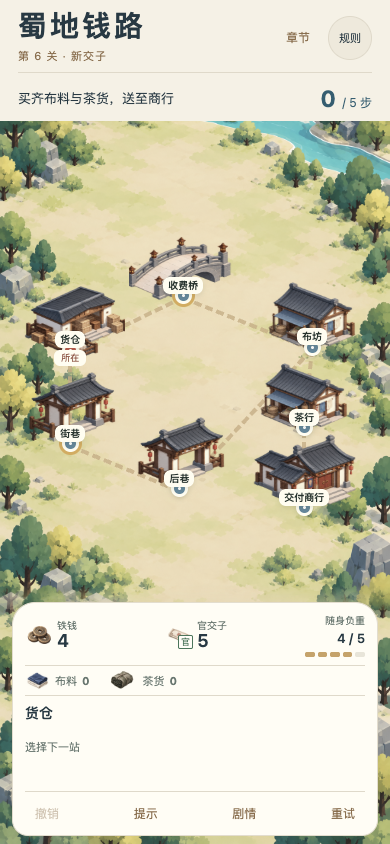
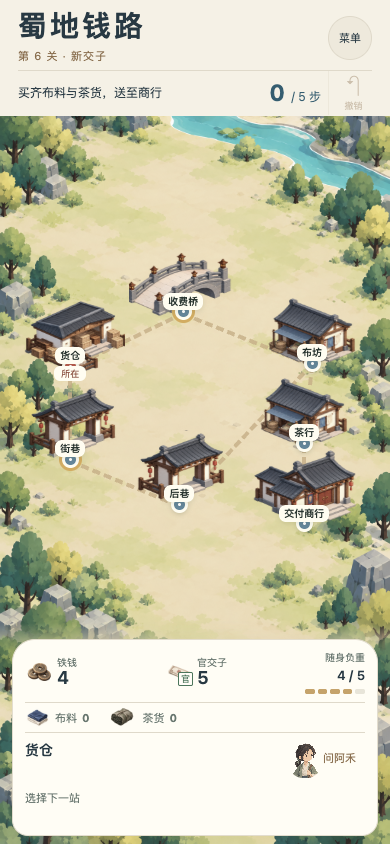
Integrate game utilities into step counter, guide and menu

diff --git a/web/app.js b/web/app.js
@@ -14,11 +14,12 @@ function mapView(v){
  <div class="art-hit-layer">${v.artRegions.map(n=>`<button class="atlas-building-hit" style="${n.style}" data-building="${n.id}" aria-label="查看${esc(n.name)}"></button>`).join('')}</div>
  <div class="interaction-layer">${v.nodes.map(n=>`<button class="node scene-node ${n.current?'current':''} ${n.reachable?'reachable':''}" style="${n.style}" data-node="${n.id}" aria-label="查看${esc(n.name)}${n.current?'，当前所在地':''}"><span class="scene-placard">${esc(n.name)}</span><span class="scene-pin"><i></i></span>${n.current?'<span class="you-marker">所在</span>':''}</button>`).join('')}</div></div></div>`;
 }
-function panel(v){const p=v.panel;return `<div class="action-panel ${p.kind}"><div class="panel-heading"><strong>${esc(p.title)}</strong><span class="muted">${esc(p.meta)}</span></div><div class="payment-controls">${p.steppers.map(s=>`<div class="stepper ${s.key==='x'?'exchange-stepper':''}">${btn('−',s.minus,'small',s.minDisabled)}<span class="stepper-value">${esc(s.label)}${s.key==='x'?'':` <b>${s.value}</b>`}</span>${btn('+',s.plus,'small',s.maxDisabled)}</div>`).join('')}</div>${p.choices.length?`<div class="choice-buttons">${p.choices.map(c=>btn(c.label,c.id,c.selected?'primary':'secondary')).join('')}</div>`:''}<p class="preview">${esc(p.preview)}</p><div class="action-buttons">${buttons(p.buttons)}</div></div>`;}
+function panel(v){const p=v.panel;return `<div class="action-panel ${p.kind}"><div class="panel-heading"><strong>${esc(p.title)}</strong><span class="muted">${esc(p.meta)}</span></div><button class="ask-guide" data-action="hint" aria-label="向阿禾询问提示"><img src="${v.guide.portrait}" alt=""><span>问阿禾</span></button><div class="payment-controls">${p.steppers.map(s=>`<div class="stepper ${s.key==='x'?'exchange-stepper':''}">${btn('−',s.minus,'small',s.minDisabled)}<span class="stepper-value">${esc(s.label)}${s.key==='x'?'':` <b>${s.value}</b>`}</span>${btn('+',s.plus,'small',s.maxDisabled)}</div>`).join('')}</div>${p.choices.length?`<div class="choice-buttons">${p.choices.map(c=>btn(c.label,c.id,c.selected?'primary':'secondary')).join('')}</div>`:''}<p class="preview">${esc(p.preview)}</p><div class="action-buttons">${buttons(p.buttons)}</div></div>`;}
 function portrait(a,cls='portrait'){return `<img class="${cls}" src="${a.portrait}" alt="${esc(a.name)}">`;}
 function vignette(v,who){return `<div class="story-visual"><img class="vignette-scene" src="${v.narrative.scene}" style="object-position:${v.narrative.crop}" alt="蜀地街市"><div class="vignette-wash"></div>${portrait(who,'hero-portrait')}<div class="vignette-caption"><span class="eyebrow">${esc(v.narrative.tag)}</span><span>一程商路 · 一笔人情</span></div></div>`;}
 function response(v){return `<div class="character-response">${portrait(v.outroActor)}<div><b>${esc(v.outroActor.name)}</b><p>${esc(v.outroText)}</p></div></div>`;}
 function modal(v){const m=v.modal;if(!m)return '';let foot='';
+ if(m.kind==='menu')return `<div class="modal-backdrop menu-backdrop"><section class="rules-dialog journey-menu" role="dialog" aria-modal="true" aria-label="行商手记"><div class="row"><h2>行商手记</h2>${btn('收起','close','text-button')}</div><div class="journey-menu-items">${btn('查看规则','rules','secondary')}${btn('重听委托','replay','secondary')}${btn('重新启程','retry','secondary')}${btn('选择章节','chapters','secondary')}</div></section></div>`;
  if(m.kind==='move')foot=btn('返回','close','secondary')+(m.canMove?btn('确认前往','confirm-move'):'');
  else if(m.kind==='lesson')foot=btn('跳过教学','skip-tutorial','secondary')+btn('继续','lesson-next');
  else if(m.kind==='hint')foot=btn('返回游戏','close','secondary')+btn(v.hintLevel===1?'查看参考解法':'再提示一点','hint-next','primary',v.hintLevel>=2);
@@ -32,7 +33,7 @@ function render(){const v=ShuNarrative.decorate(ShuScene.decorate(game.view())),
  else if(v.screen==='chapters')html=`<section class="chapters-screen narrative-chapters"><div class="row"><div><span class="eyebrow">从一袋铁钱，到独当一面</span><h1>行商六记</h1></div>${btn('返回','home','text-button')}</div><p class="chapter-progress">已办妥 ${v.completedCount} 笔委托 · 共 ${v.chapterCount} 章</p><div class="chapter-grid">${v.chapters.map(c=>`<button class="chapter-card ${c.completed?'completed':''}" data-action="level:${c.id}" ${c.locked?'disabled':''}><div class="chapter-thumbnail"><img src="${c.scene}" style="${c.artStyle}" alt=""><span class="chapter-number">0${c.number}</span><span class="chapter-state">${c.locked?'未解锁':c.completed?'已完成':'启程'}</span></div><div class="chapter-card-copy"><strong>${esc(c.title)}</strong><span>${esc(c.subtitle)}</span></div></button>`).join('')}</div></section>`;
  else if(v.screen==='intro')html=`<section class="chapter-opening"><header><span class="eyebrow">第 ${l.number} 关 / ${esc(v.narrative.tag)}</span><h1>${esc(l.title)}</h1><p class="opening-line">${esc(v.narrative.line)}</p></header>${vignette(v,v.narrative.speaker)}<div class="commission-card"><div class="speaker-line"><b>${esc(v.narrative.speaker.name)}</b><span>${esc(v.narrative.speaker.role)}</span></div><p>${esc(v.narrative.opening)}</p><div class="commission-details"><strong>${esc(l.mission)}</strong><div><span>${l.maxSteps} 步内送达</span><span>钱袋 ${l.capacity} 格</span></div></div></div><div class="opening-actions">${btn('开始委托','play')}${btn('跳过教学，直接开始','skip-intro','text-button')}</div></section>`;
  else if(s.status!=='playing')html=`<section class="result-screen"><span class="eyebrow">第 ${l.number} 关 · ${esc(l.title)}</span><h1 class="cover-title">${s.status==='won'?'委托完成':'行程未成'}</h1>${response(v)}${s.status!=='won'?`<p class="result-copy">${esc(v.resultText)}</p>`:''}<div class="result-stats"><span>行动<b>${s.stepsUsed} / ${l.maxSteps}</b></span><span>剩余资金<b>${v.total}</b></span><span>费用<b>${v.fee}</b></span></div><p class="muted">${esc(v.remainingText)}</p><p class="path">${esc(v.pathText)}</p><div class="ledger">${v.ledger.map(row=>`<p>${esc(row.text)}</p>`).join('')}</div>${s.status==='won'?`<p class="route-review">${esc(v.routeReview)}${v.ending?'<br>'+esc(v.ending):''}</p>`:''}<div class="result-buttons">${s.status==='won'?btn(v.nextLabel,'next'):''}<div class="action-buttons">${btn('重新挑战','retry','secondary')}${btn('撤销上一步','undo','secondary',!v.canUndo)}</div>${btn('返回章节','chapters','text-button')}</div></section>`;
- else html=`<div class="panel-terrain"><img src="${v.modular?'/miniapp/assets/v2/terrain.png':'/miniapp/assets/approved/town-extended.png'}" alt=""></div><header class="topbar"><div class="row"><div><h1 class="brand">蜀地钱路</h1><span class="chapter">第 ${l.number} 关 · ${esc(l.title)}</span></div><div class="top-actions">${btn('章节','chapters','text-button')}${btn('规则','rules','menu-button')}</div></div><div class="mission"><span>${esc(l.mission)}</span><span class="steps"><b>${s.stepsUsed}</b> / ${l.maxSteps} 步</span></div></header>${mapView(v)}<section class="dock"><div class="wallet">${v.resources.map(r=>`<div class="walletitem">${icon(r)}<div><span class="label">${esc(r.name)}</span><b>${r.value}</b></div></div>`).join('')}<div class="load"><span class="label">随身负重</span><b>${v.weight} / ${l.capacity}</b><div class="capacity">${v.slots.map(slot=>`<i class="slot ${slot.kind}"></i>`).join('')}</div></div></div><div class="cargo-strip">${v.cargo.map(c=>`<span>${icon(c)}${esc(c.name)} <b>${c.value}</b></span>`).join('')}</div>${v.message?`<div class="feedback ${v.error?'error':''}" role="status">${esc(v.message)}</div>`:''}${panel(v)}<div class="controls">${btn('撤销','undo','text-button',!v.canUndo)}${btn('提示','hint','text-button')}${btn('剧情','replay','text-button')}${btn('重试','retry','text-button')}</div></section>`;
+ else html=`<div class="panel-terrain"><img src="${v.modular?'/miniapp/assets/v2/terrain.png':'/miniapp/assets/approved/town-extended.png'}" alt=""></div><header class="topbar"><div class="row"><div><h1 class="brand">蜀地钱路</h1><span class="chapter">第 ${l.number} 关 · ${esc(l.title)}</span></div><div class="top-actions">${btn('菜单','menu','menu-button')}</div></div><div class="mission"><span>${esc(l.mission)}</span><div class="journey-actions"><span class="steps"><b>${s.stepsUsed}</b> / ${l.maxSteps} 步</span><button class="undo-action" data-action="undo" aria-label="撤销上一步" title="撤销上一步" ${v.canUndo?'':'disabled'}><span aria-hidden="true">↶</span><small>撤销</small></button></div></div></header>${mapView(v)}<section class="dock"><div class="wallet">${v.resources.map(r=>`<div class="walletitem">${icon(r)}<div><span class="label">${esc(r.name)}</span><b>${r.value}</b></div></div>`).join('')}<div class="load"><span class="label">随身负重</span><b>${v.weight} / ${l.capacity}</b><div class="capacity">${v.slots.map(slot=>`<i class="slot ${slot.kind}"></i>`).join('')}</div></div></div><div class="cargo-strip">${v.cargo.map(c=>`<span>${icon(c)}${esc(c.name)} <b>${c.value}</b></span>`).join('')}</div>${v.message?`<div class="feedback ${v.error?'error':''}" role="status">${esc(v.message)}</div>`:''}${panel(v)}</section>`;
  root.innerHTML=html+modal(v);if(v.modal&&v.modal.kind!=='lesson')root.querySelector('.rules-dialog button')?.focus({preventScroll:true});
 }
 root.addEventListener('click',e=>{const b=e.target.closest('button');if(!b||b.disabled)return;if(b.dataset.node||b.dataset.building)game.selectNode(b.dataset.node||b.dataset.building);else game.dispatch(b.dataset.action);render();});

diff --git a/miniapp/styles/narrative.css b/miniapp/styles/narrative.css
@@ -16,3 +16,9 @@
 .narrative-backdrop{align-items:flex-end;background:#28394318;padding:0 12px calc(12px + env(safe-area-inset-bottom));top:0;bottom:0;pointer-events:none}.narrative-backdrop.important-dialogue{background:#28394345;pointer-events:auto}.narrative-backdrop .dialogue-card{position:relative;pointer-events:auto;max-width:none;max-height:none;padding:18px 14px 12px;min-height:202px;border:1px solid var(--line);border-radius:22px;background:var(--white);box-shadow:0 -5px 30px #2839431a;overflow:visible}.dialogue-portrait{position:absolute;bottom:63px;left:0;width:125px;height:181px;object-fit:contain;object-position:bottom;filter:saturate(var(--story-portrait-tone));pointer-events:none}.dialogue-copy{margin-left:112px;min-height:112px}.dialogue-copy .eyebrow{letter-spacing:1px;font-size:10px}.dialogue-card h2,.dialogue-name{margin:4px 0 7px!important;font-size:18px!important;color:var(--brown);font-weight:700}.dialogue-card p,.dialogue-body{font-size:14px!important;line-height:1.7!important;min-height:0!important}.dialogue-card .dialog-controls{margin-top:12px}.important-dialogue .dialogue-card{min-height:300px}.important-dialogue .dialogue-portrait{width:160px;height:254px}.important-dialogue .dialogue-copy{margin-left:143px;min-height:202px;padding-top:10px}.node-flavor{font-size:13px;line-height:1.7;color:var(--brown);padding:10px 12px;background:var(--paper);border-radius:10px;margin:0 0 10px}
 .character-response{display:flex;text-align:left;align-items:center;gap:8px;background:var(--white);border:1px solid var(--line);border-radius:16px;padding:6px 12px 6px 0;margin:4px 0;flex-shrink:0}.character-response .portrait{width:70px;height:91px;object-fit:cover;object-position:top;filter:saturate(var(--story-portrait-tone));border-radius:12px}.character-response>div,.response-copy{flex:1}.character-response b,.response-name{color:var(--brown);font-size:12px;font-weight:700}.character-response p,.response-body{font-size:12px;line-height:1.6;margin-top:4px}.result-screen .result-stats{margin:9px 0 5px}.result-screen .path{margin:7px 0}.result-screen .route-review{margin:7px 0;font-size:11px}
 @media(max-height:740px){.journey-home,.chapter-opening{padding-top:8px;gap:9px}.journey-heading h1,.home-title{font-size:35px}.continue-copy{padding:12px 15px}.chapter-opening h1,.opening-title{font-size:29px;margin:5px 0}.commission-card{padding:12px}.commission-card p,.commission-dialogue{font-size:13px;line-height:1.65;margin:7px 0 9px}.chapter-opening>.story-visual{min-height:110px}.narrative-chapters{padding-top:8px}.chapter-card-copy{padding:8px}.character-response .portrait{height:65px;width:55px}.result-screen .cover-title{font-size:28px}.result-screen{padding-top:8px}.result-screen .ledger p{font-size:10px}}
+
+/* Place controls with their context, instead of a separate footer toolbar. */
+.topbar{flex-basis:106px}.mission{min-height:44px;margin-top:5px;padding:0;gap:7px}.mission>span:first-child{font-size:12px}.journey-actions{display:flex;align-items:center;gap:7px;flex-shrink:0}.undo-action{border:0;border-left:1px solid var(--line);border-radius:0;background:transparent;color:var(--brown);padding:0 0 0 6px;margin:0;min-width:44px;height:44px;display:flex;flex-direction:column;align-items:center;justify-content:center;line-height:1}.undo-action>span,.undo-symbol{font-size:23px;line-height:24px}.undo-action small,.undo-label{font-size:9px;line-height:13px}
+.dock{padding-bottom:12px}.action-panel{position:relative;height:184px}.action-panel .panel-heading{padding-right:78px;min-height:37px}.ask-guide{position:absolute;right:0;top:3px;display:flex;align-items:center;gap:2px;width:76px;height:44px;padding:0;margin:0;background:transparent;border:0;color:var(--brown);font-size:11px;line-height:1.3}.ask-guide img,.ask-guide image{width:32px;height:40px;object-fit:cover;object-position:top;filter:saturate(var(--story-portrait-tone));border-radius:14px}.ask-guide:active{background:var(--surface);border-radius:12px}.action-panel.travel{height:90px}.action-panel.delivery{height:115px}
+.menu-backdrop{align-items:flex-start;justify-content:flex-end;padding-top:calc(68px + env(safe-area-inset-top));background:#28394335}.journey-menu{max-width:286px}.journey-menu h2,.journey-menu .rule-title{font-size:21px;margin:4px 0}.journey-menu-items{display:flex;flex-direction:column;gap:9px;margin-top:12px}.journey-menu-items button{min-height:46px;background:var(--paper);justify-content:flex-start;padding-left:16px}.journey-menu-items button:last-child{border:0;background:transparent;color:var(--brown)}
+@media(max-height:740px){.topbar{flex-basis:101px}.action-panel{height:178px}.dock{padding-bottom:8px}}

diff --git a/tests/controller.test.js b/tests/controller.test.js
@@ -10,3 +10,11 @@ test('损坏/不支持版本进度恢复默认，读写失败不影响游玩',()
 test('新章节只在前章通关后开放，进度重载与中途局面分离',()=>{let saved;const storage={read:()=>saved,write:(key,data)=>saved=JSON.parse(JSON.stringify(data))};const g=C.create(storage);g.dispatch('chapters');g.dispatch('level:l02');assert.equal(g.view().screen,'chapters');g.dispatch('level:l01');win(g);g.dispatch('next');assert.equal(g.session.level.id,'l02');const reloaded=C.create(storage);assert.equal(reloaded.view().lastTitle,'两笔买卖');reloaded.dispatch('start');assert.equal(reloaded.session.state.stepsUsed,0);assert.equal(reloaded.session.state.iron,5);assert.equal(reloaded.progress.completed.includes('l01'),true);});
 test('教学不锁住实际操作；非法操作不推进标记；合法操作可撤销教学状态',()=>{const g=app();g.dispatch('play');const before=g.session.state;g.dispatch('depart');assert.deepEqual(g.session.state,before);assert.equal(g.view().modal.kind,'lesson');g.dispatch('exchange');assert.equal(g.session.state.exchanged,true);assert.equal(g.session.state.tutorialFlags.money,true);g.dispatch('undo');assert.deepEqual(g.session.state,before);});
 test('损坏存档的最近章节不能绕过解锁或导致开始按钮无响应',()=>{const g=C.create({read:()=>({version:2,completed:[],tutorialDone:[],last:'l06'})});g.dispatch('start');assert.equal(g.view().screen,'intro');assert.equal(g.session.level.id,'l01');});
+
+test('行商菜单只改变界面：取消保留状态，功能入口可达，背景交易被拦截',()=>{
+ const c=C.create();c.dispatch('start');c.dispatch('skip-intro');const before=c.session.state;
+ c.dispatch('menu');assert.equal(c.view().modal.kind,'menu');c.dispatch('exchange');assert.deepEqual(c.session.state,before);c.selectNode('bridge');assert.equal(c.view().modal.kind,'menu');c.dispatch('close');assert.deepEqual(c.session.state,before);
+ c.dispatch('menu');c.dispatch('rules');assert.equal(c.view().modal.kind,'rules');c.dispatch('close');c.dispatch('menu');c.dispatch('replay');assert.equal(c.view().modal.kind,'story');c.dispatch('close');
+ c.dispatch('exchange');assert.ok(c.session.state.exchanged);c.dispatch('menu');c.dispatch('retry');assert.equal(c.view().modal,null);assert.equal(c.session.state.exchanged,false);
+ c.dispatch('menu');c.dispatch('chapters');assert.equal(c.view().screen,'chapters');assert.equal(c.view().modal,null);
+});

diff --git a/miniapp/core/controller.js b/miniapp/core/controller.js
@@ -23,6 +23,7 @@ function create(storage={}){
  }
  function dispatch(id){const l=session.level,s=session.state;
   // Confirmation dialogs own input; teaching cards leave gameplay available.
+  if(ui.modal&&ui.modal.kind==='menu'&&['rules','chapters','replay','retry'].includes(id))ui.modal=null;
   const modalActions=['close','confirm-move','lesson-next','skip-tutorial','hint-next','rule-prev','rule-next','history-prev','history-next'];
   if(ui.modal&&ui.modal.kind!=='lesson'&&!modalActions.includes(id))return;
   if(id.startsWith('level:')){begin(id.slice(6));return;}
@@ -35,6 +36,7 @@ function create(storage={}){
   if(id==='lesson-next'){const m=ui.modal;if(!m||m.kind!=='lesson')return;session.markTutorial(m.id);ui.modal=null;if(m.id==='money'&&l.exchange)lesson('exchange');return;}
   if(id==='skip-tutorial'){ui.skip=true;if(!progress.tutorialDone.includes(l.id))progress.tutorialDone.push(l.id);save();ui.modal=null;return;}
   if(id==='replay'){ui.modal={kind:'story',title:l.intro[0],body:l.intro[1]};return;}
+  if(id==='menu'){ui.modal={kind:'menu',title:'行商手记'};return;}
   if(id==='rules'){ui.modal={kind:'rules',page:0};return;}
   if(id==='rule-next'||id==='rule-prev'){const max=P.view(session,ui).rules.length-1;ui.modal.page=Math.max(0,Math.min(max,ui.modal.page+(id==='rule-next'?1:-1)));return;}
   if(id==='hint'){ui.hint=0;ui.modal={kind:'hint',title:'行商提示',body:l.hints[0]};return;}

diff --git a/outputs/叙事界面整改交付说明.md b/outputs/叙事界面整改交付说明.md
@@ -1,4 +1,4 @@
-# 《蜀地钱路》0.4.2 · 叙事界面整改
+# 《蜀地钱路》0.4.3 · 叙事界面整改
 
 本次完成首页、章节入口、六关开场、角色对白和结尾回应；核心规则、关卡配置、价格、负重、通关条件均未更改。
 
@@ -20,7 +20,7 @@
 
 ## 预览
 
-先运行 `sh scripts/dev.sh`，访问 [本地试玩](http://127.0.0.1:4173/)。浏览器刷新即可使用本版。已有教程完成记录会沿用原有跳过开场行为；游戏内“剧情”可重看角色对白。
+先运行 `sh scripts/dev.sh`，访问 [本地试玩](http://127.0.0.1:4173/)。浏览器刷新即可使用本版。已有教程完成记录会沿用原有跳过开场行为；游戏内“菜单 → 重听委托”可重看角色对白。
 
 [首页](narrative-home-390.png) · [章节页](narrative-chapters-390.png) · [开场](narrative-intro-390.png) · [阿禾对白](narrative-dialogue-390.png) · [许掌柜对白](narrative-xu-390.png) · [结尾回应](narrative-result-390.png)
 
@@ -45,3 +45,9 @@
 小红书仅更新了原生页面并通过适配器/模板结构检查，未获得官方编译或真机结论；新增角色资源尚需发布级压缩与包体验收。
 
 代码及素材同步到 [GitHub](https://github.com/zzzz1121/shu-trade-routes)，不进行在线部署。
+
+## 操作入口整合
+
+已移除底部四按钮栏。撤销放在步数旁；提示融入当前操作区的阿禾头像；剧情与重试收进右上角菜单，分别叫“重听委托”“重新启程”。菜单还包含规则与章节。56项自动化测试及三种手机尺寸浏览器回归通过。
+
+[当前主界面](integrated-controls-390.png) · [右上角菜单](integrated-menu-390.png)

diff --git a/docs/visual-spec.md b/docs/visual-spec.md
@@ -90,3 +90,9 @@
 用户明确否定0.4.1半写实人物。当前三位角色改用与微缩地图相配的二维块面卡通：略放大的简化头部，深色椭圆眼睛、楔形鼻、小嘴；头发和衣褶使用少量大色块，只有轻微2.5D体积感。保持灰绿、蓝灰和暖棕。禁止真人肖像、半写实皮肤与毛发细节、摄影光影、油画质感、厚黑描边和动漫偶像式五官。
 
 角色资源仍为独立透明PNG，沿用同一接入路径。首页、开场、底部对白、半屏剧情与结尾全部同步，不保留旧人物混用。正式角色定稿仍需验收，不因替换画风改变UI或规则。
+
+## 0.4.3 操作入口融入界面
+
+移除钱袋面板底部独立的“撤销／提示／剧情／重试”工具栏。撤销与行动步数并列，保留44px触控区和禁用状态；提示变成当前操作标题旁的阿禾角色入口“问阿禾”；剧情重播与重试分别以“重听委托”“重新启程”收进右上角“行商手记”菜单，菜单同时提供规则与章节入口。钱袋底边仅保留12px内边距，地图随可用高度延展，不预留空工具栏。
+
+菜单只管理视图，打开与收起不耗步、不改资产；打开期间禁止触发地图移动或背后交易。重试仍调用既有完整重置，撤销与三级提示规则不变。浏览器和小程序使用同一控制器状态。

diff --git a/README.md b/README.md
@@ -1,6 +1,6 @@
 # 蜀地钱路 · 六关可玩原型
 
-按《完整游戏策划文档 V2.0》实现，程序版本 **0.4.2**。手机竖屏固定屏，纯 JavaScript 规则、原生小红书页面和浏览器入口共用逻辑。仅保留本地试玩和私有 GitHub，不部署在线站点。
+按《完整游戏策划文档 V2.0》实现，程序版本 **0.4.3**。手机竖屏固定屏，纯 JavaScript 规则、原生小红书页面和浏览器入口共用逻辑。仅保留本地试玩和私有 GitHub，不部署在线站点。
 
 ## 在 VS Code 运行
 
@@ -38,6 +38,8 @@ npm start
 |转手生意|先出售后购买、收款货币二选一|4|
 |兑付风波|最多一次、最多三单位兑付|3|
 |新交子|官交子、两笔交易、收费/免费商路|6|
+
+底部不再显示独立工具栏：步数旁撤销，当前操作面板点“问阿禾”获取提示；右上角菜单可查看规则、重听委托、重新启程或选择章节。
 
 点击建筑或地点牌查看条件，再确认移动。交易货币分别调节；确认前预览余额与负重。只有移动消耗步数。所有非法操作不改变状态；死局可撤销或重试。剧情和教学可跳过，主动提示分三级。
 

diff --git a/docs/test-report.md b/docs/test-report.md
@@ -67,3 +67,7 @@ node scripts/build-web.js
 ## 0.4.2 人物风格替换检查
 
 本轮只替换三张人物PNG及文档/版本号，不修改UI结构或游戏代码。角色改为与地图配套的块面卡通，旧半写实角色不再使用。实际执行5项叙事单元测试、三种尺寸六章开场/重播浏览器检查和静态构建，全部通过；确认三图均为1024×1536 RGBA透明图。复查首页、罗掌柜开场、阿禾教学与许掌柜对白截图，图片不遮挡文字或按钮。人物总资源从约6.4MiB降至约4MiB；平台包体验收仍未执行。
+
+## 0.4.3 操作入口验收
+
+实际执行56项Node测试通过，新增菜单取消不改状态、背景交易/移动拦截及规则/剧情/重试/章节入口检查。第一关两路、后五关各两种策略在375×812、390×844、430×932均通过；三尺寸六章叙事界面检查通过。原生模板结构检查通过，未声称官方编译。第一关浏览器检查新增：独立底栏不存在、撤销位于任务步数区、提示位于操作面板、菜单所有按钮可见。静态构建成功。

diff --git a/outputs/交付说明.md b/outputs/交付说明.md
@@ -1,7 +1,9 @@
 # 当前交付
 
-最新版本：0.4.2，完成首页、章节开幕和角色叙事整改；人物已替换为块面卡通，移除半写实画风。
+最新版本：0.4.3，完成首页、章节开幕和角色叙事整改；人物已替换为块面卡通，移除半写实画风。
 
 [查看叙事界面整改说明](叙事界面整改交付说明.md)
 
 [此前六关V2.0功能说明](V2.0-交付说明.md)
+
+底部四按钮工具栏已移除，入口分别融入步数、阿禾提示与右上角菜单。
